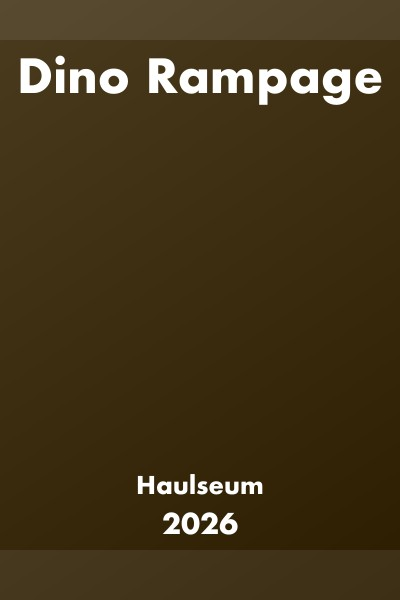
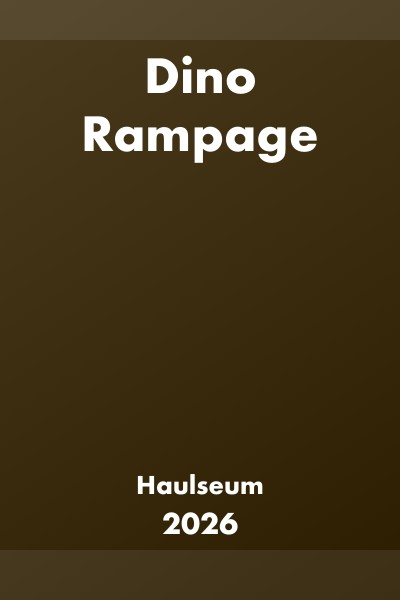
Fix page ranges and tighten cover title wrap for demo collections
Sections in all 5 demo collections shared the same 7-8 page range;
give them incrementing page ranges like the existing branded
collections. Also narrow the cover title wrap width so longer
collection names break sooner.

Changed region(s): [[0.03, 0.09, 0.81, 0.27], [0.36, 0.09, 0.96, 0.18]]

diff --git a/scripts/generate-cover.js b/scripts/generate-cover.js
@@ -102,7 +102,7 @@ try {
 
   // Collection name (positioned in middle, centered)
   ctx.font = 'bold 46px Futura';
-  const maxNameWidth = width - 20;
+  const maxNameWidth = width - 120;
 
   // Wrap long names
   const words = collection.name.split(' ');
